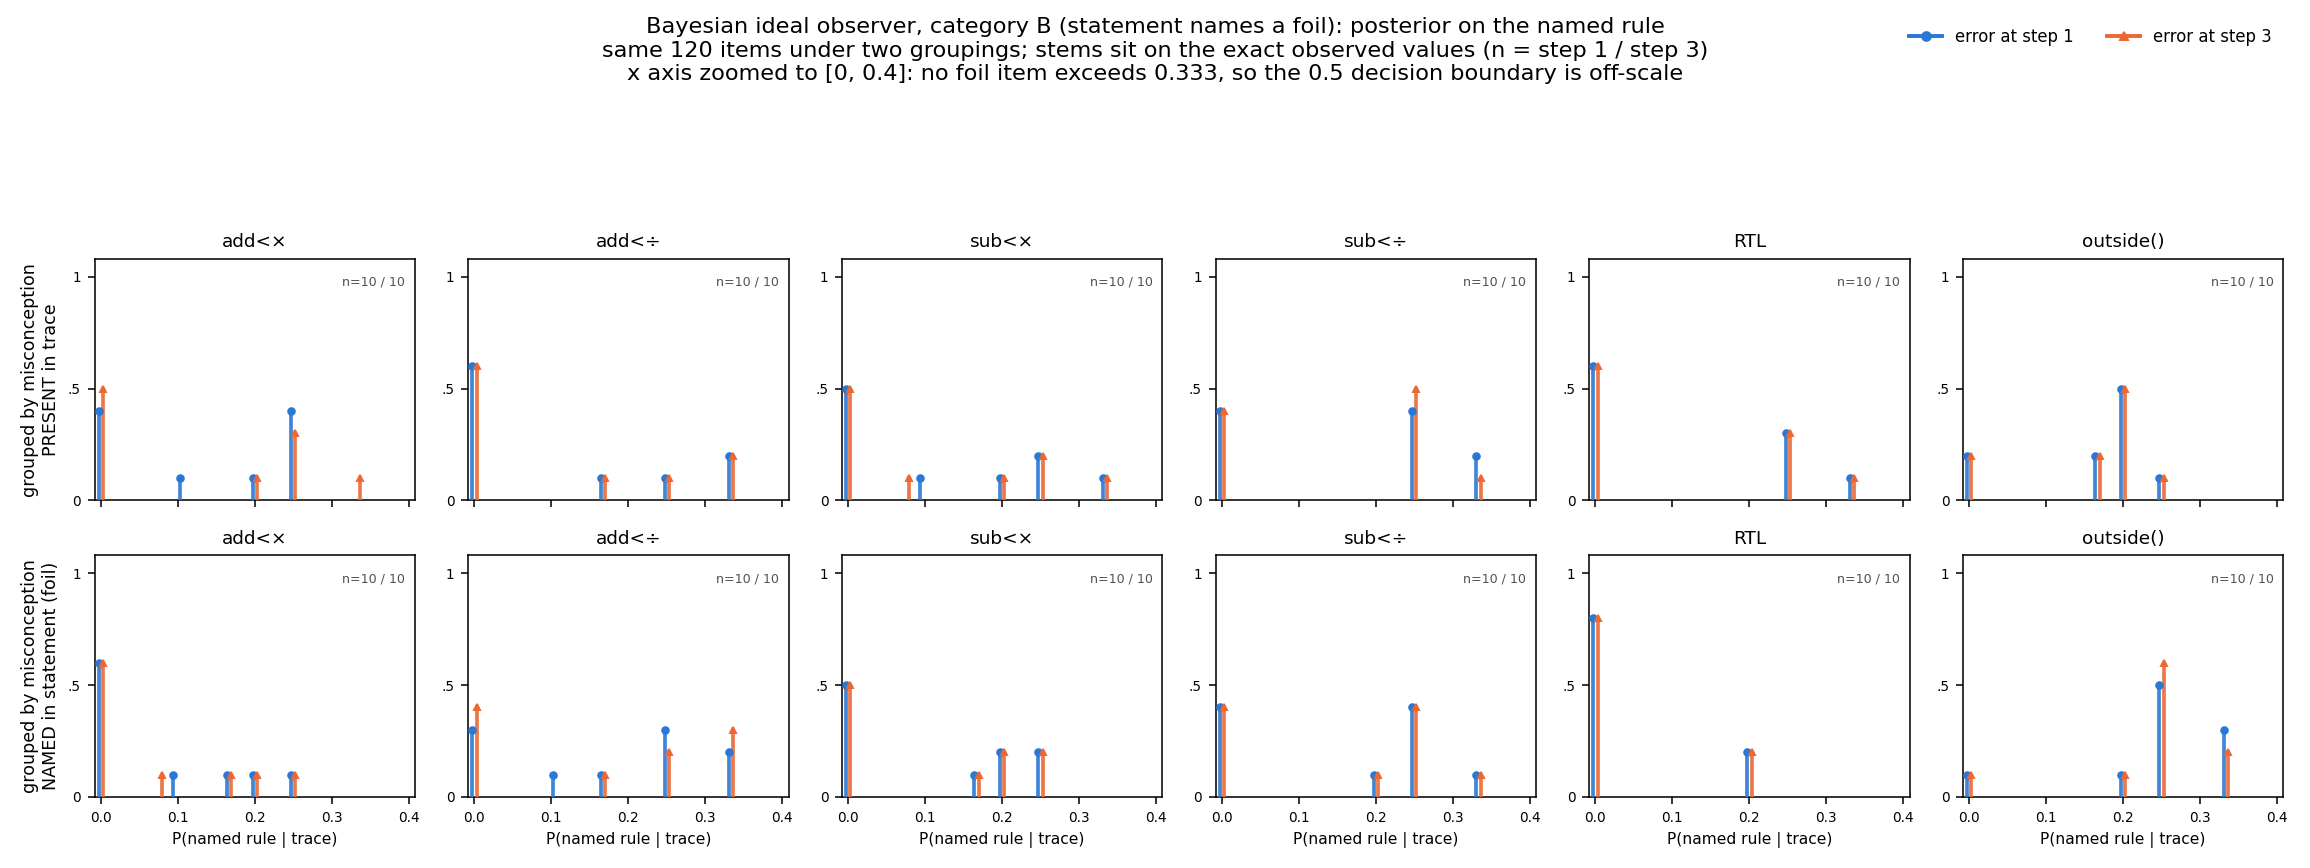
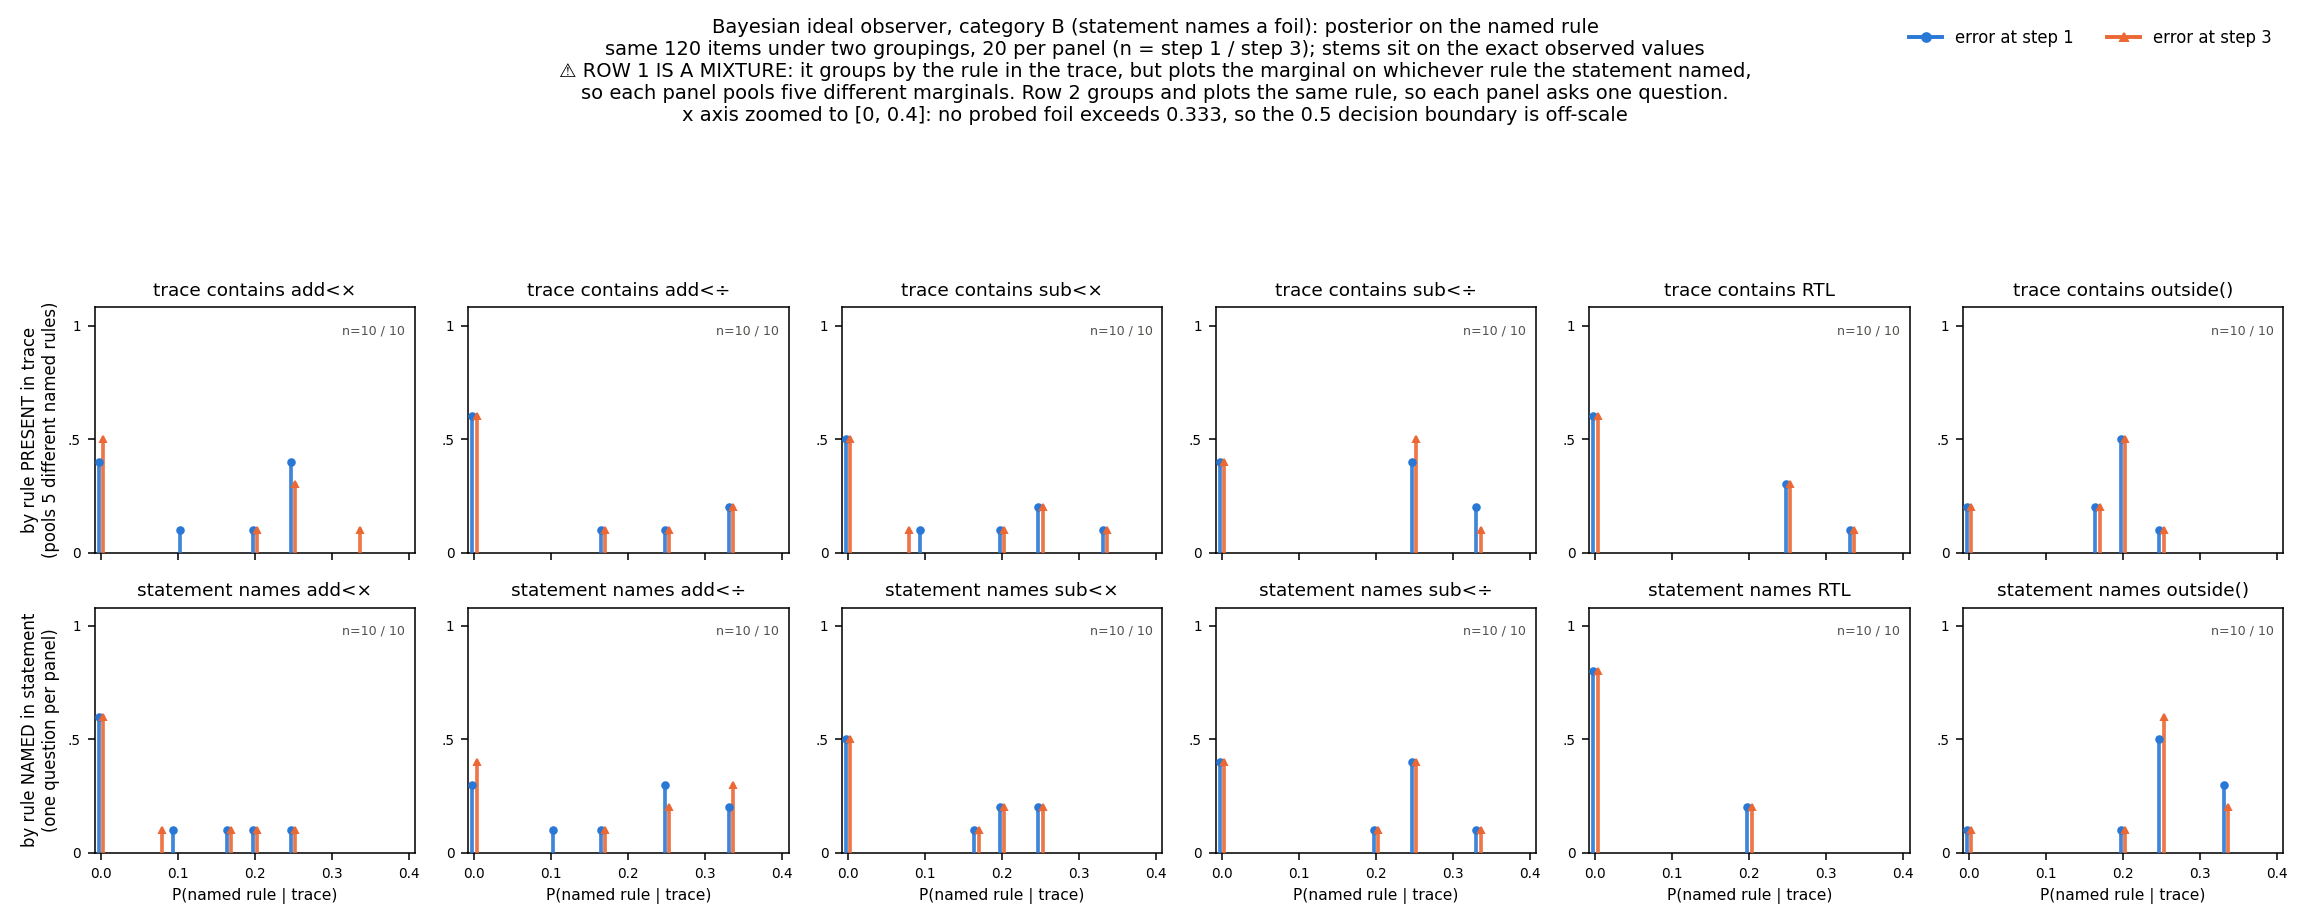
Fix a misleading panel title in the category-B distributions figure
Row 1 groups by the rule PRESENT in the trace but plots the marginal on
whichever rule the statement named, so one panel pools five different
marginals. Titled only "add<x", it read as though it plotted
P(add<x | trace), which it never does. A reader was misled by it immediately.

Panels are now titled "trace contains X" and "statement names X", the row
labels say which is a mixture and which asks one question, and the caption
carries the warning. No data changed.

Also records in HANDOFF that category A vs B is not a difference in the
observer at all: it computes one posterior per trace and the category only
selects which of the six marginals is read. The labels exist on the Bayes side
purely so the three observers can be scored on the same items.

Claude-Session: https://claude.ai/code/session_019Li47TmLNzjVpDRchmRWcQ

diff --git a/analysis-Bayesian/plot_bayes_1misc_distributions.py b/analysis-Bayesian/plot_bayes_1misc_distributions.py
@@ -21,10 +21,18 @@ Three figures:
       draw and the figure exists to show that.
 
   bayes_1misc_dist_B.png  category B (statement names a foil). Two rows over the
-      same 120 items, because present and named are decoupled: row 1 groups by
-      the misconception PRESENT in the trace ("does the student's actual bug make
-      the work confusable?"), row 2 by the misconception NAMED ("are some claims
-      inherently easier to rule out?").
+      same 120 items. Row 2 is the clean one: it groups by the NAMED rule, so the
+      grouping variable and the plotted marginal are the same rule and each panel
+      asks exactly one question ("how confidently can this claim be ruled out
+      when it is false?").
+      ⚠ Row 1 groups by the rule PRESENT in the trace while still plotting the
+      marginal on whichever rule the statement named, so a single panel pools
+      five different marginals. The panel titled "trace contains add<mul" never
+      plots P(add<mul | trace) at all. It is a task-level summary of the B trials
+      that came from those traces, NOT a property of the observer, and it is
+      titled and captioned to say so. For the observer-level version of the
+      trace-side question use bayes_1misc_profile.png, which keeps every rule's
+      marginal separate.
 
   bayes_1misc_profile.png  the figure the indexing point above motivates. For
       every trace it plots ALL SIX marginals, not just the queried one, grouped
@@ -142,20 +150,31 @@ def main():
     # ── figure 2: category B, two groupings ──
     b_present = by_position(b_rows, 'true_misconception')
     b_named = by_position(b_rows, 'probed_misconception')
-    fig, axes = plt.subplots(2, 6, figsize=(16.5, 6.2), sharex=True)
+    fig, axes = plt.subplots(2, 6, figsize=(16.5, 6.6), sharex=True)
     for j, m in enumerate(IDS):
-        stem_panel(axes[0, j], b_present[m], SHORT[m], xmax=B_XMAX)
-        stem_panel(axes[1, j], b_named[m], SHORT[m], xmax=B_XMAX)
+        # ⚠ The two rows do NOT plot the same quantity, and the panel titles say so.
+        # Row 1 groups by the rule in the TRACE while the value plotted is the marginal
+        # on whichever rule that item's statement named, so one panel pools five
+        # different marginals. It is a task-level summary, not a property of the
+        # observer. For the observer-level version of the same question, use
+        # bayes_1misc_profile.png, which plots each rule's marginal separately.
+        # Row 2 groups by the NAMED rule, so grouping variable and plotted quantity
+        # coincide and each panel asks exactly one question.
+        stem_panel(axes[0, j], b_present[m], f'trace contains {SHORT[m]}', xmax=B_XMAX)
+        stem_panel(axes[1, j], b_named[m], f'statement names {SHORT[m]}', xmax=B_XMAX)
         axes[1, j].set_xlabel('P(named rule | trace)', fontsize=8)
-    axes[0, 0].set_ylabel('grouped by misconception\nPRESENT in trace', fontsize=9)
-    axes[1, 0].set_ylabel('grouped by misconception\nNAMED in statement (foil)', fontsize=9)
+    axes[0, 0].set_ylabel('by rule PRESENT in trace\n(pools 5 different named rules)', fontsize=8.5)
+    axes[1, 0].set_ylabel('by rule NAMED in statement\n(one question per panel)', fontsize=8.5)
     fig.suptitle('Bayesian ideal observer, category B (statement names a foil): '
                  'posterior on the named rule\n'
-                 f'same {len(b_rows)} items under two groupings; stems sit on the exact observed '
-                 'values (n = step 1 / step 3)\n'
-                 'x axis zoomed to [0, 0.4]: no foil item exceeds 0.333, so the 0.5 decision '
-                 'boundary is off-scale',
-                 fontsize=11.5)
+                 f'same {len(b_rows)} items under two groupings, 20 per panel '
+                 '(n = step 1 / step 3); stems sit on the exact observed values\n'
+                 '⚠ ROW 1 IS A MIXTURE: it groups by the rule in the trace, but plots the '
+                 'marginal on whichever rule the statement named,\nso each panel pools five '
+                 'different marginals. Row 2 groups and plots the same rule, so each panel asks '
+                 'one question.\nx axis zoomed to [0, 0.4]: no probed foil exceeds 0.333, so the '
+                 '0.5 decision boundary is off-scale',
+                 fontsize=10)
     legend(fig)
     fig.tight_layout(rect=[0, 0, 1, 0.86])
     p2 = os.path.join(HERE, 'bayes_1misc_dist_B.png')

diff --git a/HANDOFF.md b/HANDOFF.md
@@ -206,9 +206,25 @@ marginal.
 - **`plot_bayes_1misc_distributions.py`** -> three figures:
   - `bayes_1misc_dist_A.png` category A. A POINT MASS at 1.000 in every panel. Kept as the
     reference, but it carries no information beyond "the observer is a logical oracle".
-  - `bayes_1misc_dist_B.png` category B, two rows (grouped by PRESENT, then by NAMED), positions
-    overlaid. x zoomed to [0, 0.4] since no probed foil marginal exceeds 0.333.
+  - `bayes_1misc_dist_B.png` category B, two rows, positions overlaid, x zoomed to [0, 0.4] since
+    no probed foil marginal exceeds 0.333. **Row 2 (by NAMED rule) is the clean one**: grouping
+    variable and plotted marginal are the same rule, so each panel asks one question.
+    ⚠ **Row 1 (by PRESENT rule) is a MIXTURE.** It groups by the rule in the trace but still plots
+    the marginal on whichever rule the statement named, so one panel pools five different
+    marginals: the panel for `add_before_mul` never plots P(add_before_mul | trace) at all. It is a
+    task-level summary of the B trials arising from those traces, not a property of the observer.
+    Titles and caption now say this explicitly (they did not on 2026-09-09 and it misled a reader
+    immediately). Use the profile figure for the observer-level trace-side question.
   - `bayes_1misc_profile.png` **the one worth looking at.** See below.
+
+### ⚠ Category A vs B is NOT a difference in the observer
+`posterior_over_profiles()` takes ONLY the trace. A and B are properties of the TASK, not of the
+inference: the observer computes one posterior per trace, yielding six marginals, and the category
+only decides which entry gets read off. The labels exist on the Bayes side purely for
+COMPARABILITY, because humans and LLMs do see the statement and are scored per item, so the Bayes
+arm has to be scored on the same items to sit on the same axis. Any figure that groups by one rule
+while plotting a marginal selected by a different rule is mixing incommensurable quantities; see
+the dist_B row 1 warning above.
 
 ### ⚠ The statement is NOT an input to inference
 `posterior_over_profiles()` takes ONLY the trace. The named rule enters afterwards purely as an
